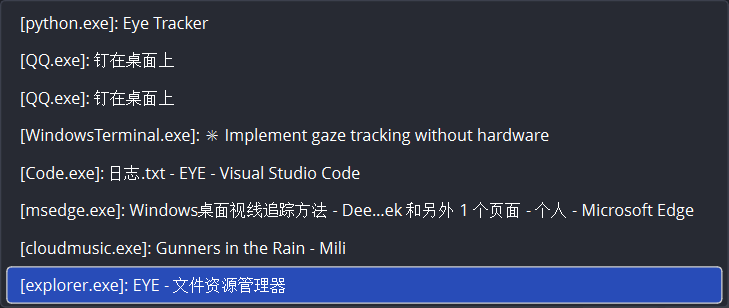
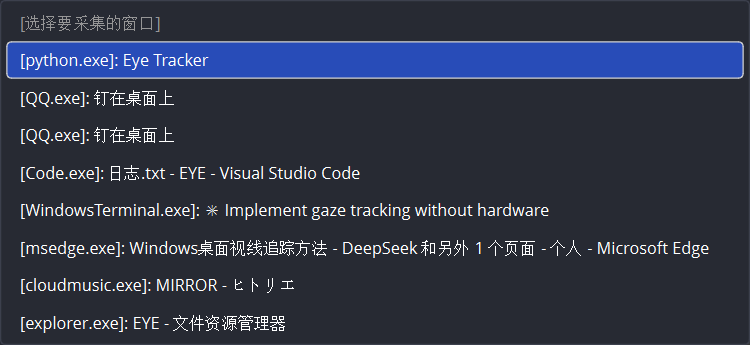
fix: CaptureWindow as QMainWindow for reliable OBS Window Capture detection

diff --git a/eye_tracker/widgets.py b/eye_tracker/widgets.py
@@ -2,8 +2,8 @@
 
 import math
 import ctypes
-from PySide6.QtWidgets import (QWidget, QPushButton, QLabel, QSlider,
-                                QVBoxLayout, QHBoxLayout)
+from PySide6.QtWidgets import (QWidget, QMainWindow, QPushButton, QLabel,
+                                QSlider, QVBoxLayout, QHBoxLayout)
 from PySide6.QtCore import Qt, QPointF, Signal
 from PySide6.QtGui import (QPainter, QColor, QRadialGradient,
                             QBrush, QFont, QPen)
@@ -129,24 +129,19 @@ class OverlayWindow(QWidget):
 
 
 # ═══════════════════════════════════════════════════════════════════
-# Capture 窗口 — 全屏黑底，供 OBS 色度键抠图
+# Capture 窗口 — OBS 窗口捕获用 (QMainWindow 确保可被枚举)
 # ═══════════════════════════════════════════════════════════════════
 
-class CaptureWindow(QWidget):
-    """OBS 捕捉用窗口：纯黑背景 + 光圈，色度键抠除黑色即可叠加。
-
-    使用普通窗口（非全屏无边框），OBS 窗口捕获后缩放至全屏即可。
-    """
+class CaptureWindow(QMainWindow):
+    """供 OBS 窗口捕获的黑底光圈窗口。使用 QMainWindow 确保出现在窗口列表。"""
 
     def __init__(self, geo):
         super().__init__()
         self._screen_w = geo.width()
         self._screen_h = geo.height()
-        # 普通窗口，OBS 能识别
         self.setWindowTitle("Eye Tracker - Capture")
         self.resize(960, 540)
-        self.move(100, 100)
-        self.setAutoFillBackground(True)
+        self.move(50, 50)
         self.setStyleSheet("background: #000000;")
         self._gx = geo.width() // 2
         self._gy = geo.height() // 2
@@ -156,10 +151,10 @@ class CaptureWindow(QWidget):
         self._tracking = False
 
     def paintEvent(self, event):
+        from PySide6.QtGui import QPainter
         p = QPainter(self)
         p.setRenderHint(QPainter.Antialiasing)
         if self._tracking:
-            # 将屏幕坐标缩放到窗口坐标
             sx = self._gx * (self.width() / self._screen_w)
             sy = self._gy * (self.height() / self._screen_h)
             svx = self._vx * (self.width() / self._screen_w)

diff --git a/eye_tracker/main.py b/eye_tracker/main.py
@@ -53,7 +53,6 @@ class App:
         else:
             self.main_window.status_label.setText("校准失败，请重试")
 
-        # 定时刷新主界面状态
         self._status_timer = QTimer()
         self._status_timer.timeout.connect(self._update_ui)
         self._status_timer.start(50)
@@ -74,11 +73,9 @@ class App:
         self.capture = CaptureWindow(screen_geo)
         self.engine.reset_position()
         self.tracking_active = True
-        self.overlay_visible = False
+        self.overlay_visible = True
         self.main_window.set_tracking_active(True)
         self.engine.gaze_updated.connect(self._on_gaze)
-        QApplication.processEvents()
-        self._toggle_overlay()  # 强制显示确保渲染
 
     def _stop_tracking(self):
         self.engine.gaze_updated.disconnect(self._on_gaze)
@@ -102,10 +99,10 @@ class App:
         was_tracking = self.tracking_active
         if was_tracking:
             self._stop_tracking()
-        self.engine.pause()              # 暂停 tick，保持摄像头存活
+        self.engine.pause()
         self.main_window.hide()
         run_calibration(self.engine)
-        self.engine.resume()             # 恢复 tick
+        self.engine.resume()
         calib_path = os.path.join(os.path.dirname(os.path.abspath(__file__)), "calibration.npz")
         if self.engine.has_calibration(calib_path):
             self.engine.load_calibration(calib_path)
@@ -114,7 +111,6 @@ class App:
             self._start_tracking()
 
     def _run_center_calibration(self):
-        """单点中心校准：注视屏幕中央 2.5 秒修正漂移。"""
         was_tracking = self.tracking_active
         if was_tracking:
             self._stop_tracking()